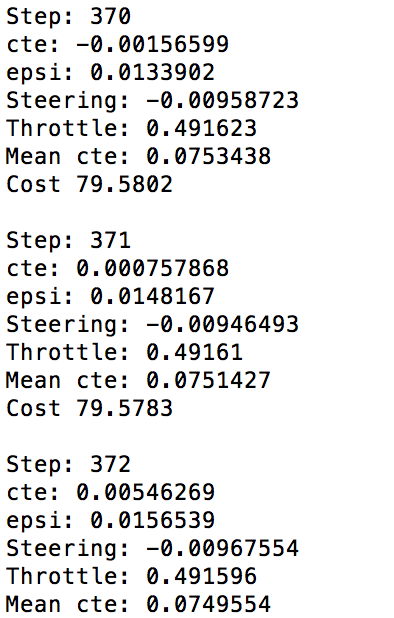
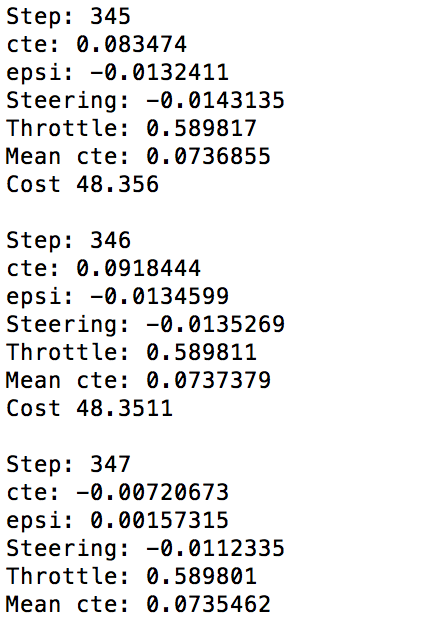
Finish the MPC project! Fixed the latency part.

Changed region(s): [[0.0, 0.0, 0.7614, 0.3382], [0.0, 0.3689, 0.7614, 0.6764], [0.0, 0.7071, 0.7614, 1.0]]

diff --git a/Term2/Project5_MPC/src/main.cpp b/Term2/Project5_MPC/src/main.cpp
@@ -104,6 +104,19 @@ int main() {
           *
           */
 
+          // Get actuator values
+          const double delta = j[1]["steering_angle"];
+          const double a = j[1]["throttle"];
+          const double latency = 0.1;
+
+          // mph -> m/s
+          v = 0.4474 * v; 
+
+          // Prediction according to the latency 
+          double x_pred = v * latency;
+          double phi_pred = -v * delta * latency / 2.67;
+          double v_pred = v + a * latency;
+
           // Global coord -> Vehicle coord
           int N_pts = ptsx.size();
 
@@ -122,19 +135,23 @@ int main() {
           // Get polynomial coefficients (Third order)
           auto coeff  = polyfit(ptsx_local, ptsy_local, 3);
           
-          // Get Cross Traffic Error (cte)
-          double cte  = - polyeval(coeff, 0.0);
-
+          // Calculate CTE
+          double cte = - polyeval(coeff, 0.0);
+          
           sum_cte += fabs(cte); 
           step += 1.0;
           mean_cte = sum_cte / step;
 
           // Get Heading Error 
-          double epsi = -atan(coeff[1]);
+          double epsi = -atan(coeff[1]);  
+
+          // Prediction of cte and epsi
+          double cte_pred = cte + v * sin(epsi) * latency;
+          double epsi_pred = epsi + phi_pred;
 
           // Get state 
           Eigen::VectorXd state(6);
-          state << 0, 0, 0, v, cte, epsi;
+          state << x_pred, 0, phi_pred, v_pred, cte_pred, epsi_pred;
 
           // MPC function
           auto output = mpc.Solve(state, coeff);

diff --git a/Term2/Project5_MPC/src/MPC.cpp b/Term2/Project5_MPC/src/MPC.cpp
@@ -6,8 +6,8 @@
 using CppAD::AD;
 
 // TODO: Set the timestep length and duration
-size_t N = 15;
-double dt = 0.05;
+size_t N = 10;
+double dt = 0.1;
 
 // Variables:  
 // x, y, psi, v, cte, epsi, delta, a
@@ -50,7 +50,7 @@ class FG_eval {
     // Cost is stored in the first element of 'fg'
     fg[0] = 0;
 
-    double ref_speed = 65;
+    double ref_speed = 85 * 0.44704;
 
     double weight_cte  = 0.5;
     double weight_epsi = 0.5;
@@ -59,7 +59,7 @@ class FG_eval {
     double weight_del  = 1;
     double weight_acc  = 1;
 
-    double weight_del_diff = 10000;
+    double weight_del_diff = 12000;
     double weight_acc_diff = 0.5;
 
     // The part of the cost based on the refetence state

diff --git a/Term2/Project5_MPC/README.md b/Term2/Project5_MPC/README.md
@@ -113,8 +113,8 @@ At first, I set timestep length(N) and duration (dt)
 
 ```c++
 // TODO: Set the timestep length and duration
-size_t N = 15;
-double dt = 0.05;
+size_t N = 10;
+double dt = 0.1;
 ```
 
 At the udacity lecture, `T = N * dt`. Also, it said T should be as large as possible, while dt should be as small as possible. 
@@ -131,7 +131,7 @@ At the udacity lecture, `T = N * dt`. Also, it said T should be as large as poss
 
 
 
-In my case, I set N = 10 and dt = 0.1 at the first time. In this case, actuation was so discretized that it was hard to control the vehicle to follow the trajectory. Therefore, I set the dt value half of the previous value (0.05) and increased N value to 20. It worked well, but sometimes the trajectory twisted if the road is too curvy. I guessed large horizon caused this problem, so I reduced N value as 15. I could set dt smaller than 0.05 to prevent large horizon, but I worried about large computational cost. Therefore, my final values about time step is N = 15, dt = 0.05 
+In my case, l set the values about time step is N = 12, dt = 0.05. But 12 * 0.05 =  0.6 is too short. Therefore, I set my final values of N and dt as N = 10 and dt = 0.1 
 
 
 
@@ -266,6 +266,54 @@ this_thread::sleep_for(chrono::milliseconds(100));
 
 
 
+I predicted the state with vehicle model according to the latency (100 ms)
+
+The codes are as follows.
+
+```c++
+// Get actuator values
+const double delta = j[1]["steering_angle"];
+const double a = j[1]["throttle"];
+const double latency = 0.1;
+
+// mph -> m/s
+v = 0.4474 * v; 
+
+// Prediction according to the latency 
+double x_pred = v * latency;
+double phi_pred = -v * delta * latency / 2.67;
+double v_pred = v + a * latency;
+
+// Get polynomial coefficients (Third order)
+auto coeff  = polyfit(ptsx_local, ptsy_local, 3);
+
+// Calculate CTE
+double cte = - polyeval(coeff, 0.0);
+
+sum_cte += fabs(cte); 
+step += 1.0;
+mean_cte = sum_cte / step;
+
+// Get Heading Error 
+double epsi = -atan(coeff[1]);  
+
+// Prediction of cte and epsi
+double cte_pred = cte + v * sin(epsi) * latency;
+double epsi_pred = epsi + phi_pred;
+
+// Get state 
+Eigen::VectorXd state(6);
+state << x_pred, 0, phi_pred, v_pred, cte_pred, epsi_pred;
+```
+
+With vehicle model, I could calculate predicted $x$, $phi$ and $v$ of vehicle after 100ms. 
+
+Also, Using predicted position $x_{pred}$, I calculated predicted cte and epsi.
+
+With all those predicted values, I could get predicted state of the vehicle after 100ms (latency) 
+
+
+
 ## Simulation Result
 
 I used MPC technique to vehicle simulator which was provided by Udacity.
@@ -284,7 +332,7 @@ Result of my simulation after 1 lap is as follows.
 
 ![Result](./Images/Result.png) 
 
-About after 1 lap, average cte was 0.075. 
+About after 1 lap, average cte was 0.07. 
 
 This result is way better than the result of `PID control` even though MPC had latency! :smiley:.
 
